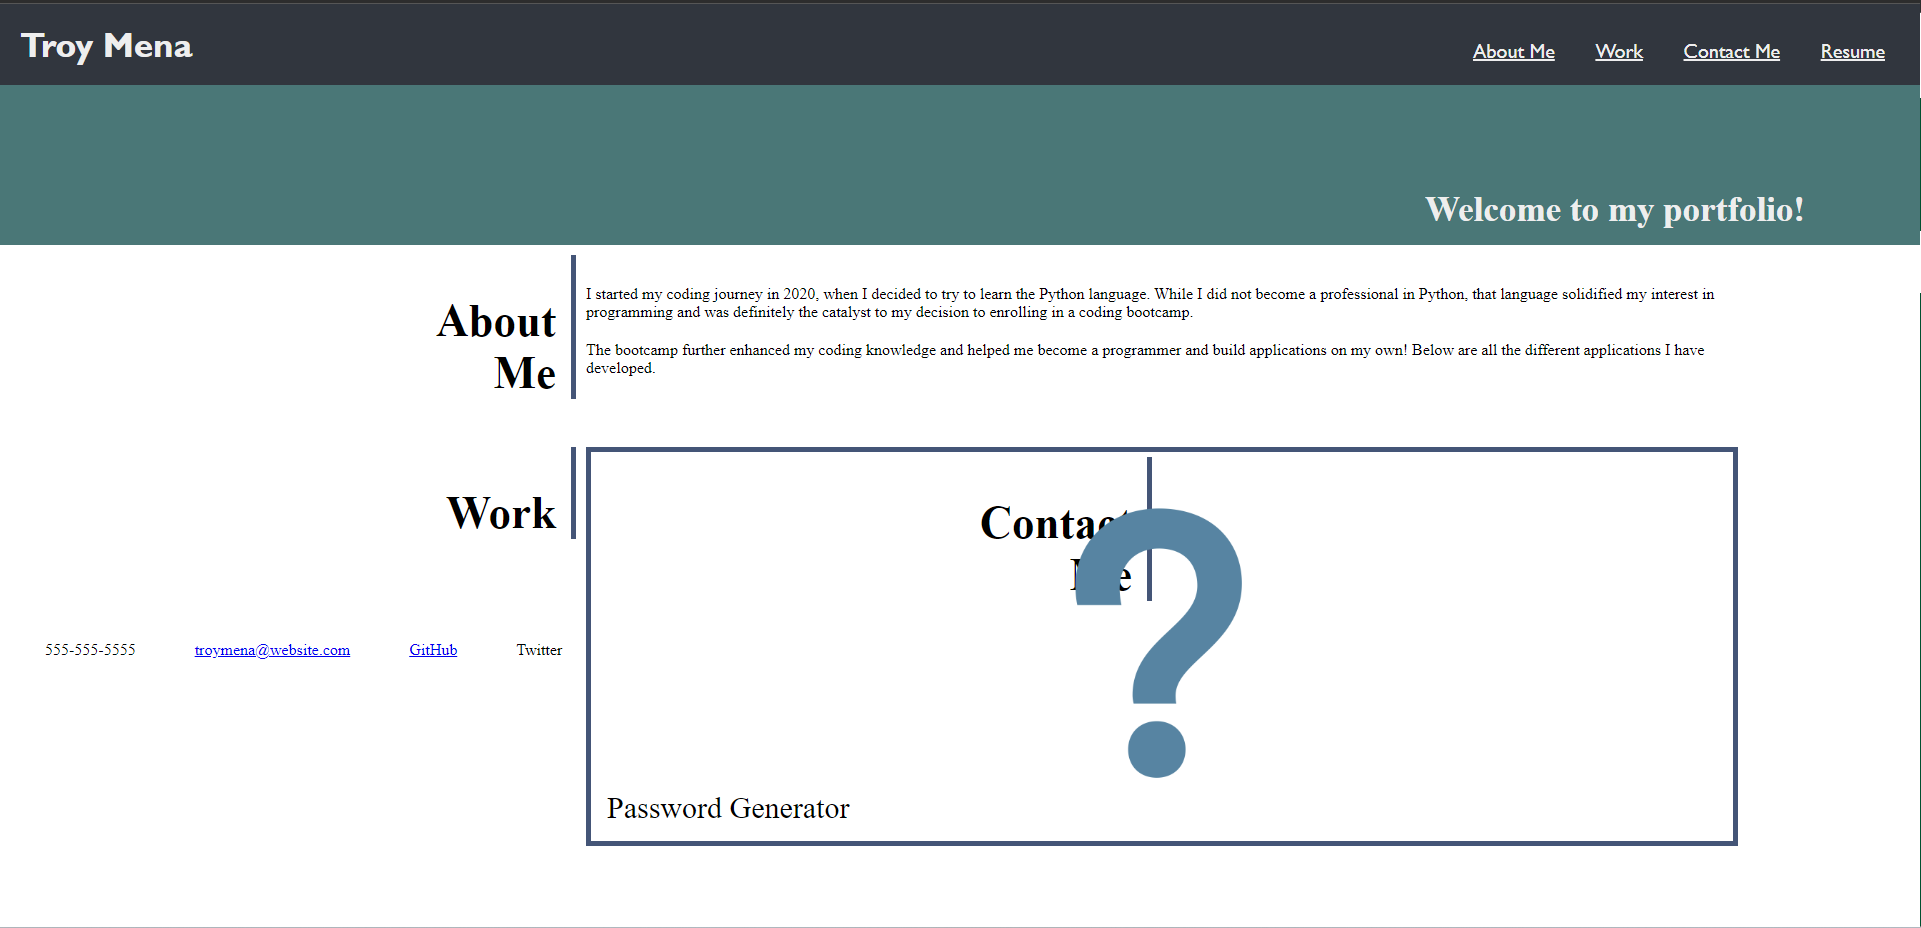
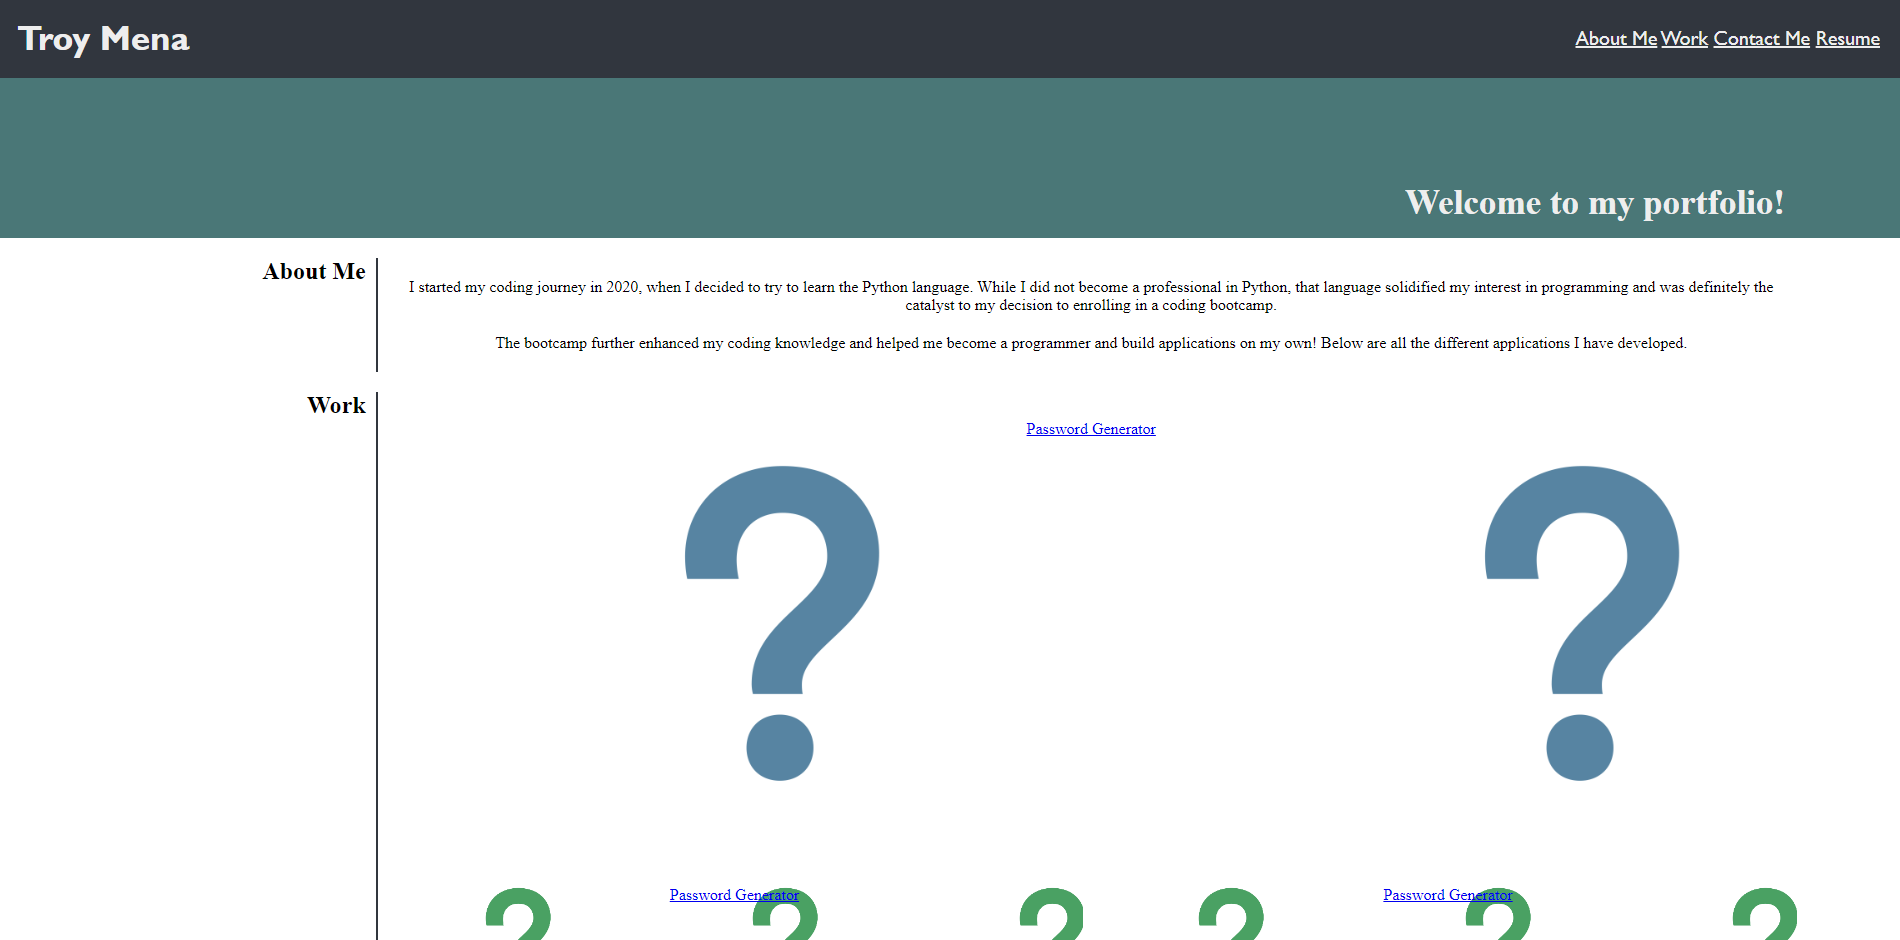
I updated my README file to include a source for my code, and I added an updated website screenshot to my assets folder, and I renamed the old screenshot 'website-screenshot-old'.

diff --git a/README.md b/README.md
@@ -14,4 +14,7 @@ The screenshot below shows the website at the time of writing this README file:
 
 ## Notes
 
-Unfortunately, I was not able to get my flex boxes (including some commented out ones on the CSS code) at the desired positions; hence why this website is incomplete, unfortunately. I plan on scheduling tutoring sessions as soon as possible to make sure I will have a thorough understanding of CSS for the remainder of this course.
+Sources for my code:
+Tutor Jose Lopez
+
+While my portfolio may not be perfect, I wanted to resubmit my portfolio with these changes to demonstrate my understanding of CSS. I worked with tutor Jose Lopez, who was able to much better understand CSS flexbox.
